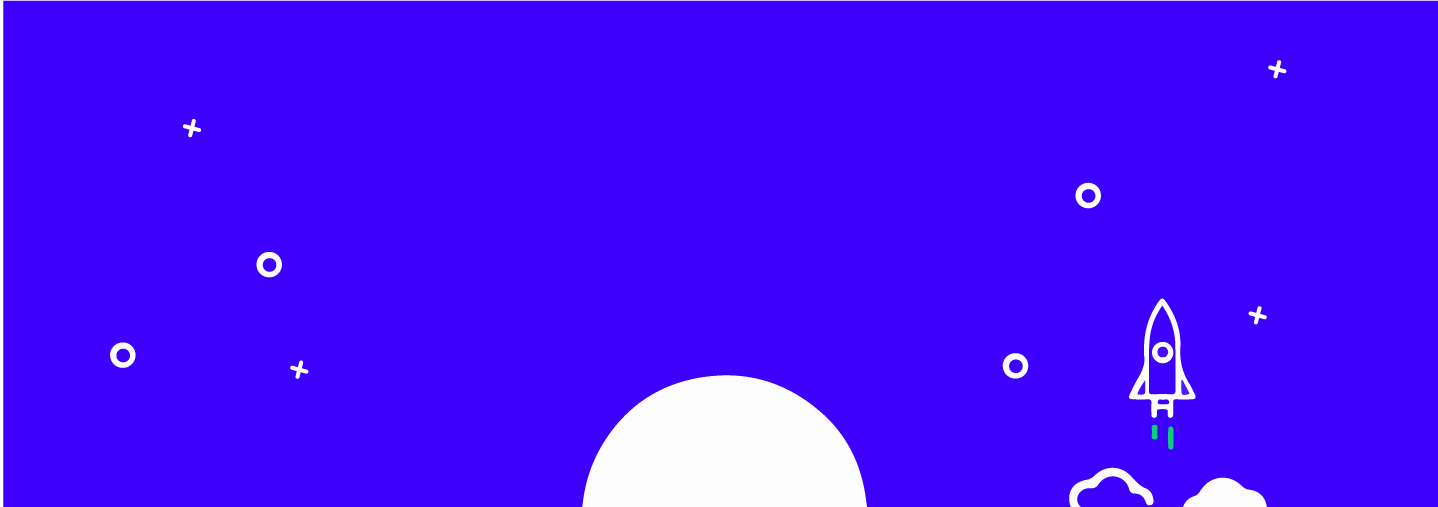
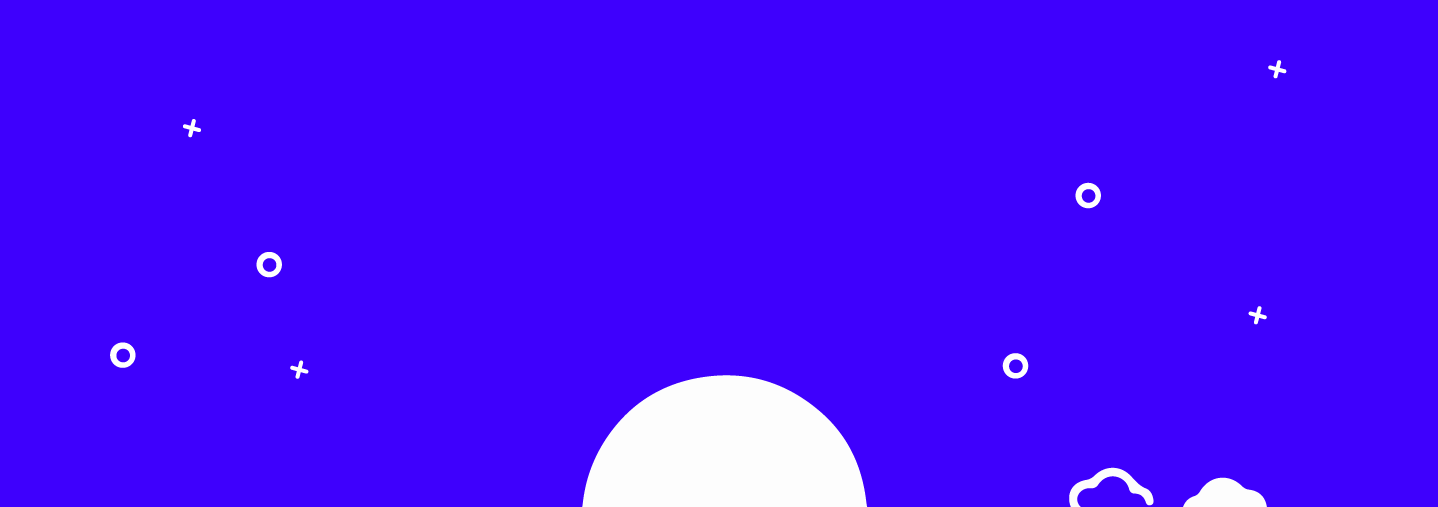
Update Build Waiting State

Changed region(s): [[0.765, 0.5917, 0.8567, 0.8876], [0.0, 0.0, 0.0306, 0.0296]]

diff --git a/app/dashboard/templates/shared/bounty_hero.html b/app/dashboard/templates/shared/bounty_hero.html
@@ -1,0 +1,36 @@
+{% comment %}
+  Copyright (C) 2018 Gitcoin Core
+
+  This program is free software: you can redistribute it and/or modify
+  it under the terms of the GNU Affero General Public License as published
+  by the Free Software Foundation, either version 3 of the License, or
+  (at your option) any later version.
+
+  This program is distributed in the hope that it will be useful,
+  but WITHOUT ANY WARRANTY; without even the implied warranty of
+  MERCHANTABILITY or FITNESS FOR A PARTICULAR PURPOSE. See the
+  GNU Affero General Public License for more details.
+
+  You should have received a copy of the GNU Affero General Public License
+  along with this program. If not, see <http://www.gnu.org/licenses/>.
+{% endcomment %}
+{% load i18n static %}
+<div class="transation-header" style="display: none;">
+  <h2>Transaction Processing</h2>
+</div>
+<div class="transaction-status" style="display:none;">
+  <div class="ethereum-issue">
+    {% trans "Your issue is being posted to the Ethereum Blockchain." %}
+    <br>
+    {% trans "This page will automatically update when the sync is completed." %}
+  </div>
+</div>
+<div class="row loading justify-content-center align-items-center p-4">
+  <h3 class="issue-url"></h3>
+</div>
+<div class="rocket">
+  <img src="{% static "v2/images/rocket.svg" %}" class="svg" alt="Gitcoin Rocket">
+</div>
+<div class="row loading justify-content-center align-items-center loading_img pt-4">
+  <img src="{% static "v2/images/loading_v2.gif" %}" style="max-width: 200px;">
+</div>

diff --git a/app/dashboard/templates/bounty_details.html b/app/dashboard/templates/bounty_details.html
@@ -23,23 +23,7 @@
       </div>
 
       <div class="col-12 offset-md-1 col-md-8 body">
-        <div class="transation-header" style="display: none;">
-            <h2 style="color: #ffffff;">Transaction Processing</h2>
-          </div>
-          <div class="transaction-status" style="display:none;">
-              <div style='width:100%; font-size: 18px; color: #ffffff;'>
-                {% trans "Your issue is being posted to the Ethereum Blockchain." %}
-                <br>
-                {% trans "This page will automatically update when the sync is completed." %}
-              </div>
-          </div>
-          <div class="row justify-content-center align-items-center p-3">
-            <h3 class="issue-url"></h3>
-          </div>
-        <div class="row justify-content-center align-items-center loading_img p-5">
-          <img src="{% static "v2/images/loading_v2.gif" %}" style="max-width: 200px;">
-        </div>
-
+        {% include 'shared/bounty_hero.html' %}
         <div class="row nonefound" style="display:none;">
           <img src="{% static "v2/images/shrug_bot.png" %}">
           <h3>{% trans "No funded issue found." %}</h3>

diff --git a/app/assets/v2/css/bounty.css b/app/assets/v2/css/bounty.css
@@ -187,6 +187,10 @@ body {
   top: 2px;
 }
 
+.transation-header > h2 {
+  color: #ffffff;
+}
+
 #bounty_details .tags {
   float: right;
   text-align: center;
@@ -554,9 +558,35 @@ a.btn {
 }
 
 
-.loading {
+.open {
   background-image: url("/static/v2/images/bounty_details.png");
   background-repeat: no-repeat;
   background-size: 100% 50%;
 }
 
+
+
+.ethereum-issue {
+  width:100%;
+  font-size: 18px;
+  color: #ffffff;
+}
+
+.rocket {
+  position: absolute;
+  left: 64rem;
+  top: 18rem;
+  width: 5rem;
+  animation: MoveUpDown 3s infinite alternate;
+  -webkit-animation: MoveUpDown 3s infinite alternate;
+}
+
+
+@keyframes MoveUpDown {
+  0% { transform: translateY(0); }
+  100% { transform: translateY(-3rem); }
+}
+@-webkit-keyframes MoveUpDown {
+  0% { transform: translateY(0); }
+  100% { transform: translateY(-3rem); }
+}

diff --git a/app/assets/v2/js/pages/bounty_details.js b/app/assets/v2/js/pages/bounty_details.js
@@ -338,6 +338,7 @@ var update_title = function() {
 var showWarningMessage = function(txid) {
 
   update_title();
+  $('.interior .body').addClass('open');
   $('.interior .body').addClass('loading');
 
   if (typeof txid != 'undefined' && txid.indexOf('0x') != -1) {
